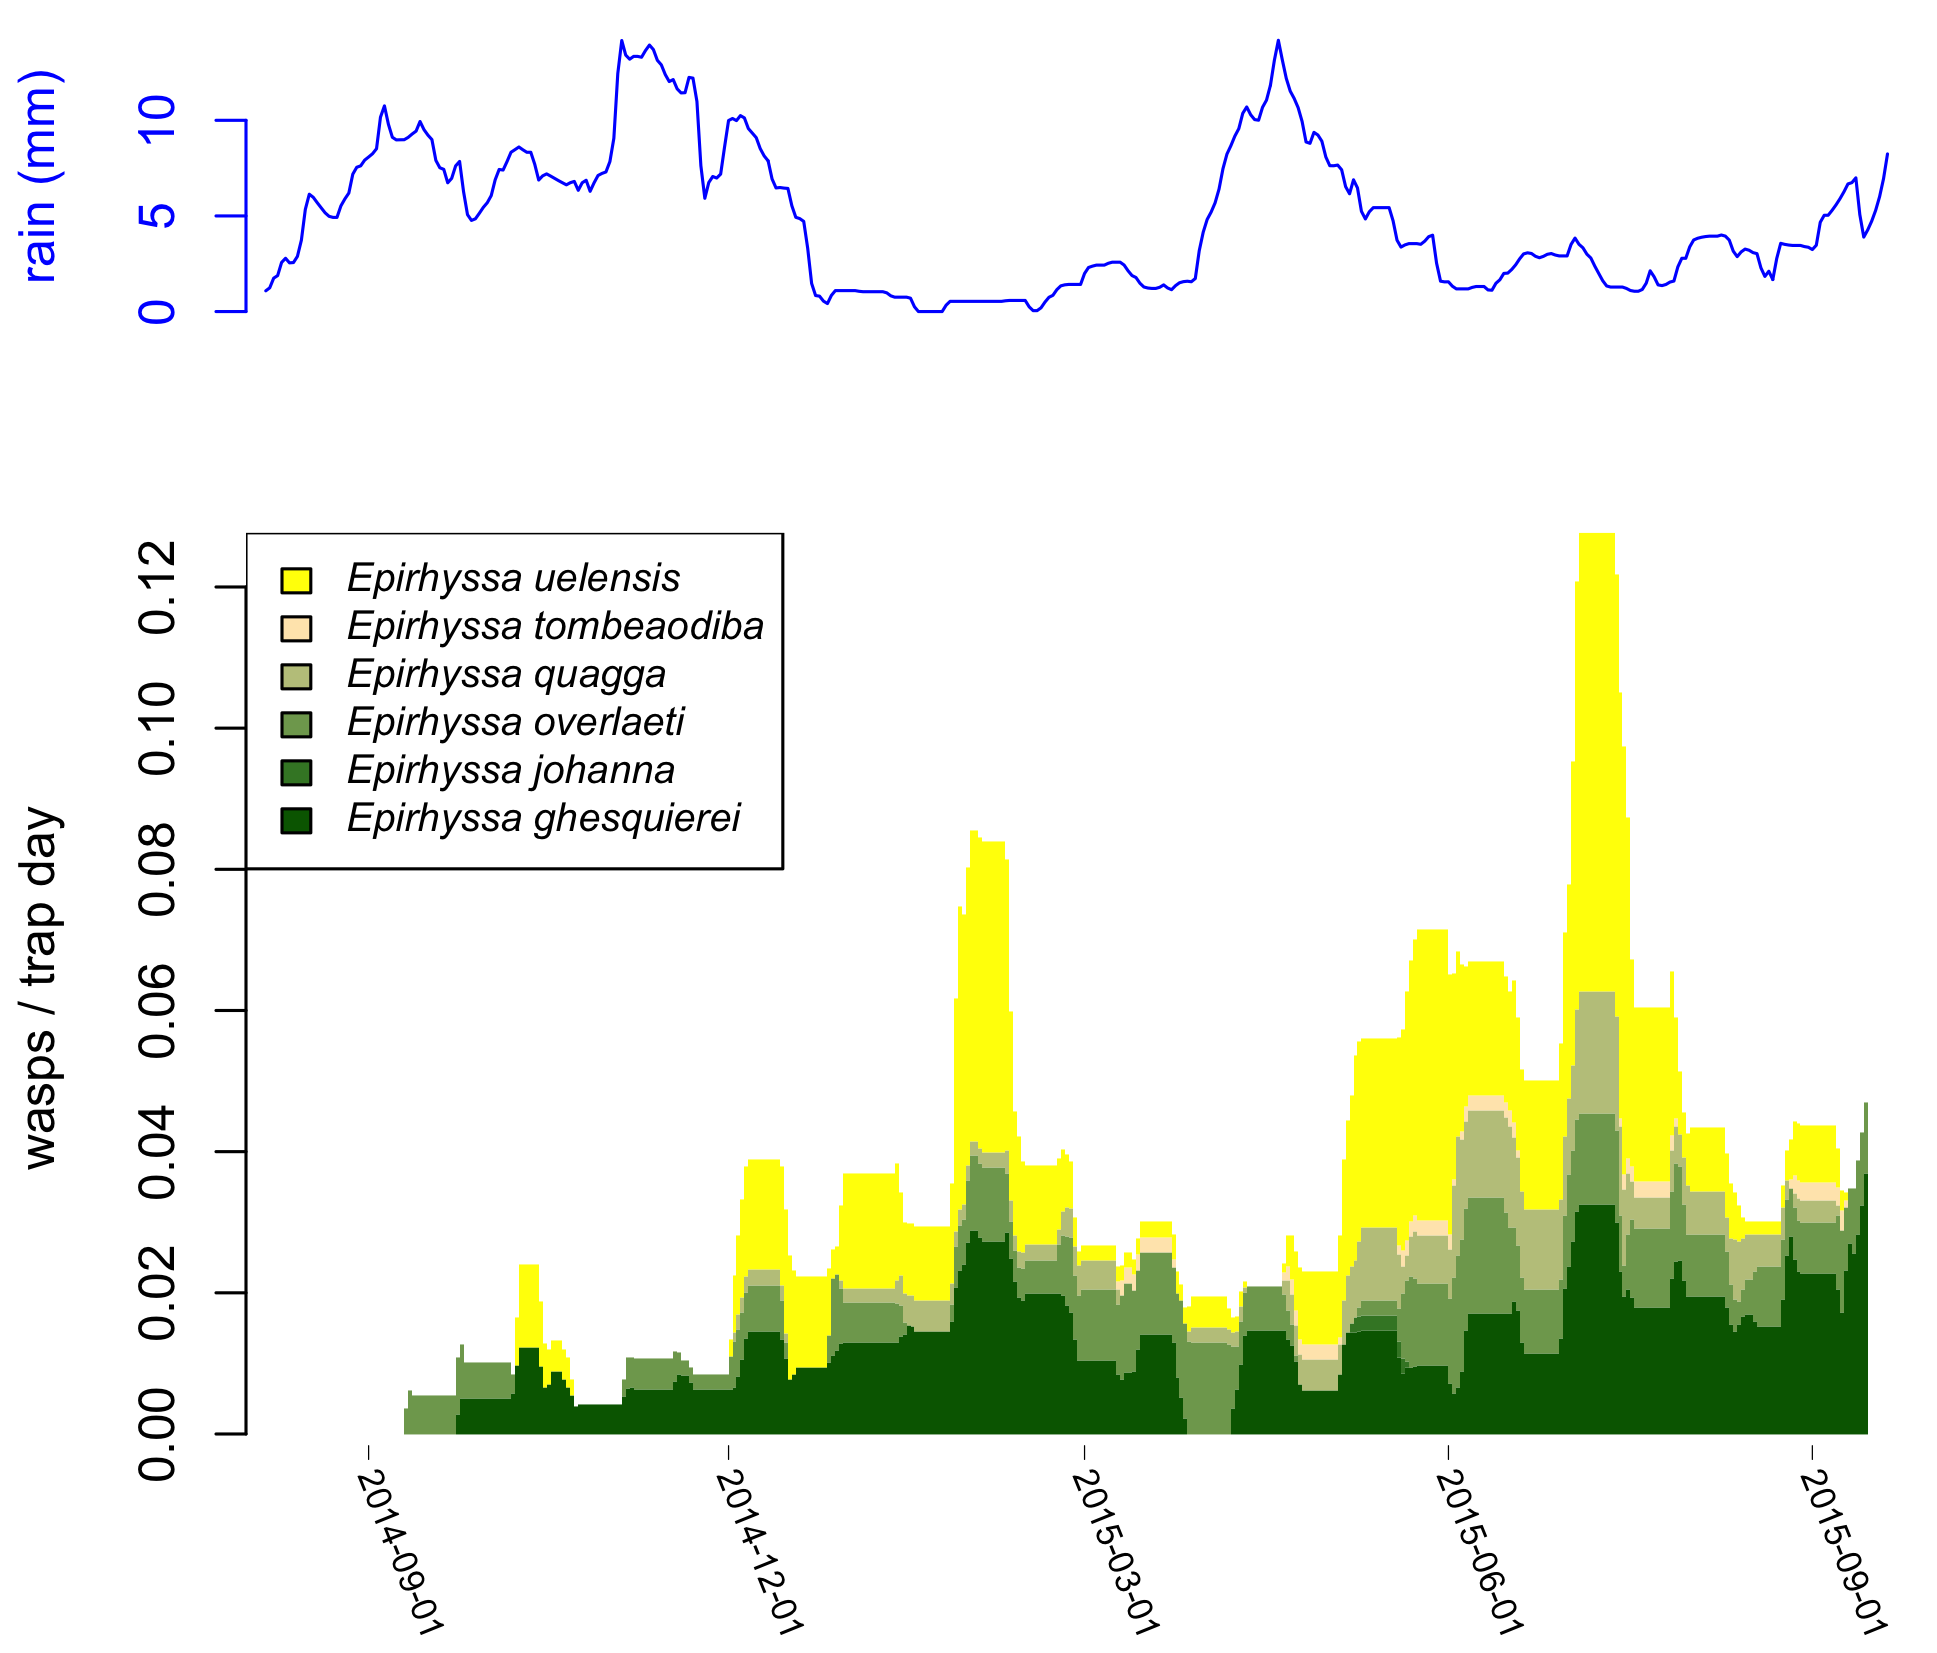
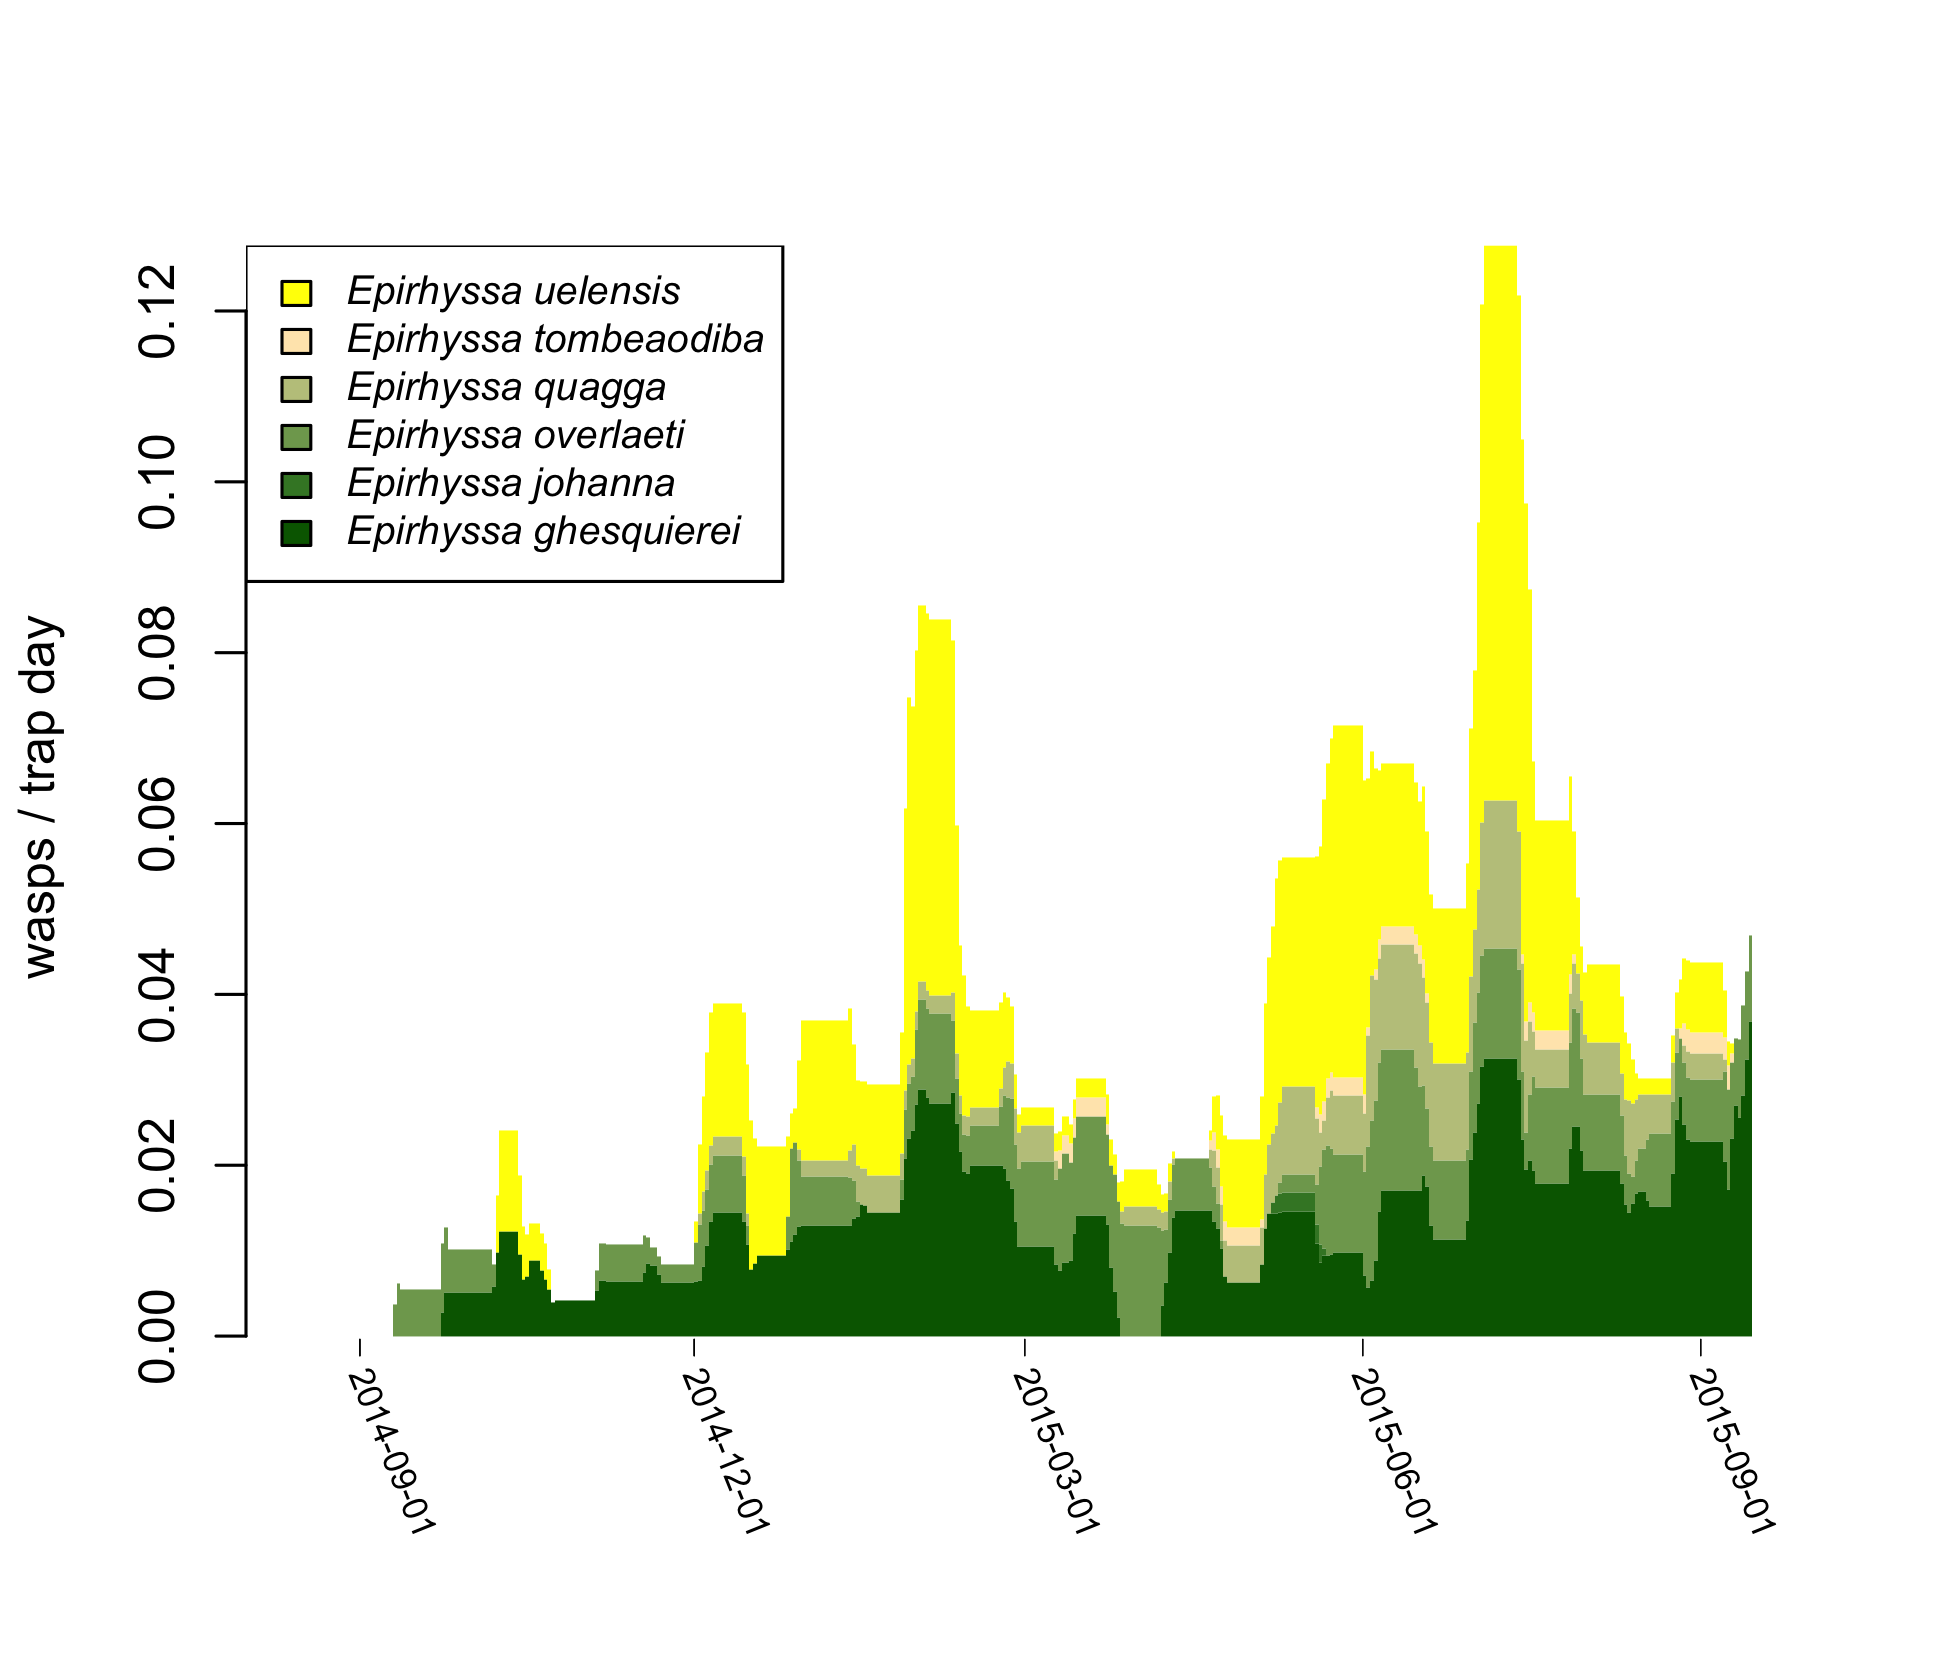
update plot_weather() docs

diff --git a/README.md b/README.md
@@ -90,6 +90,27 @@ plot_time(xdate, m, taxon=x$taxon, ylab="wasps / trap day")
 default_legend(x$taxon, x="topleft")
 ```
 
+### Show the weather when wasps were caught
+
+<img src="inst/example_images/plot_weather.png" height="140">
+
+```r
+# prepare layout (two plots)
+layout(matrix(1:2), heights=c(1, 3))
+
+# get x limits that cover the wasp data
+xlim = plot_time(as.interval(x$start, x$end), plot=FALSE, xlabel=FALSE)$xlim
+
+# draw rain plot
+par(mar=c(1.5, 4.1, 0.5, 0.1))
+plot_weather(what="rain", xlim=xlim, ylab="rain (mm)")
+
+# draw wasp plot
+par(mar=c(3.5, 4.1, 2, 0.1))
+plot_time(as.interval(x$start, x$end), m, x$taxon, ylab="wasps / trap day")
+default_legend(x$taxon, x="topleft")
+```
+
 ### Explore how wasp catches varied with rain etc
 
 <img src="inst/example_images/explore.png" height="140">
